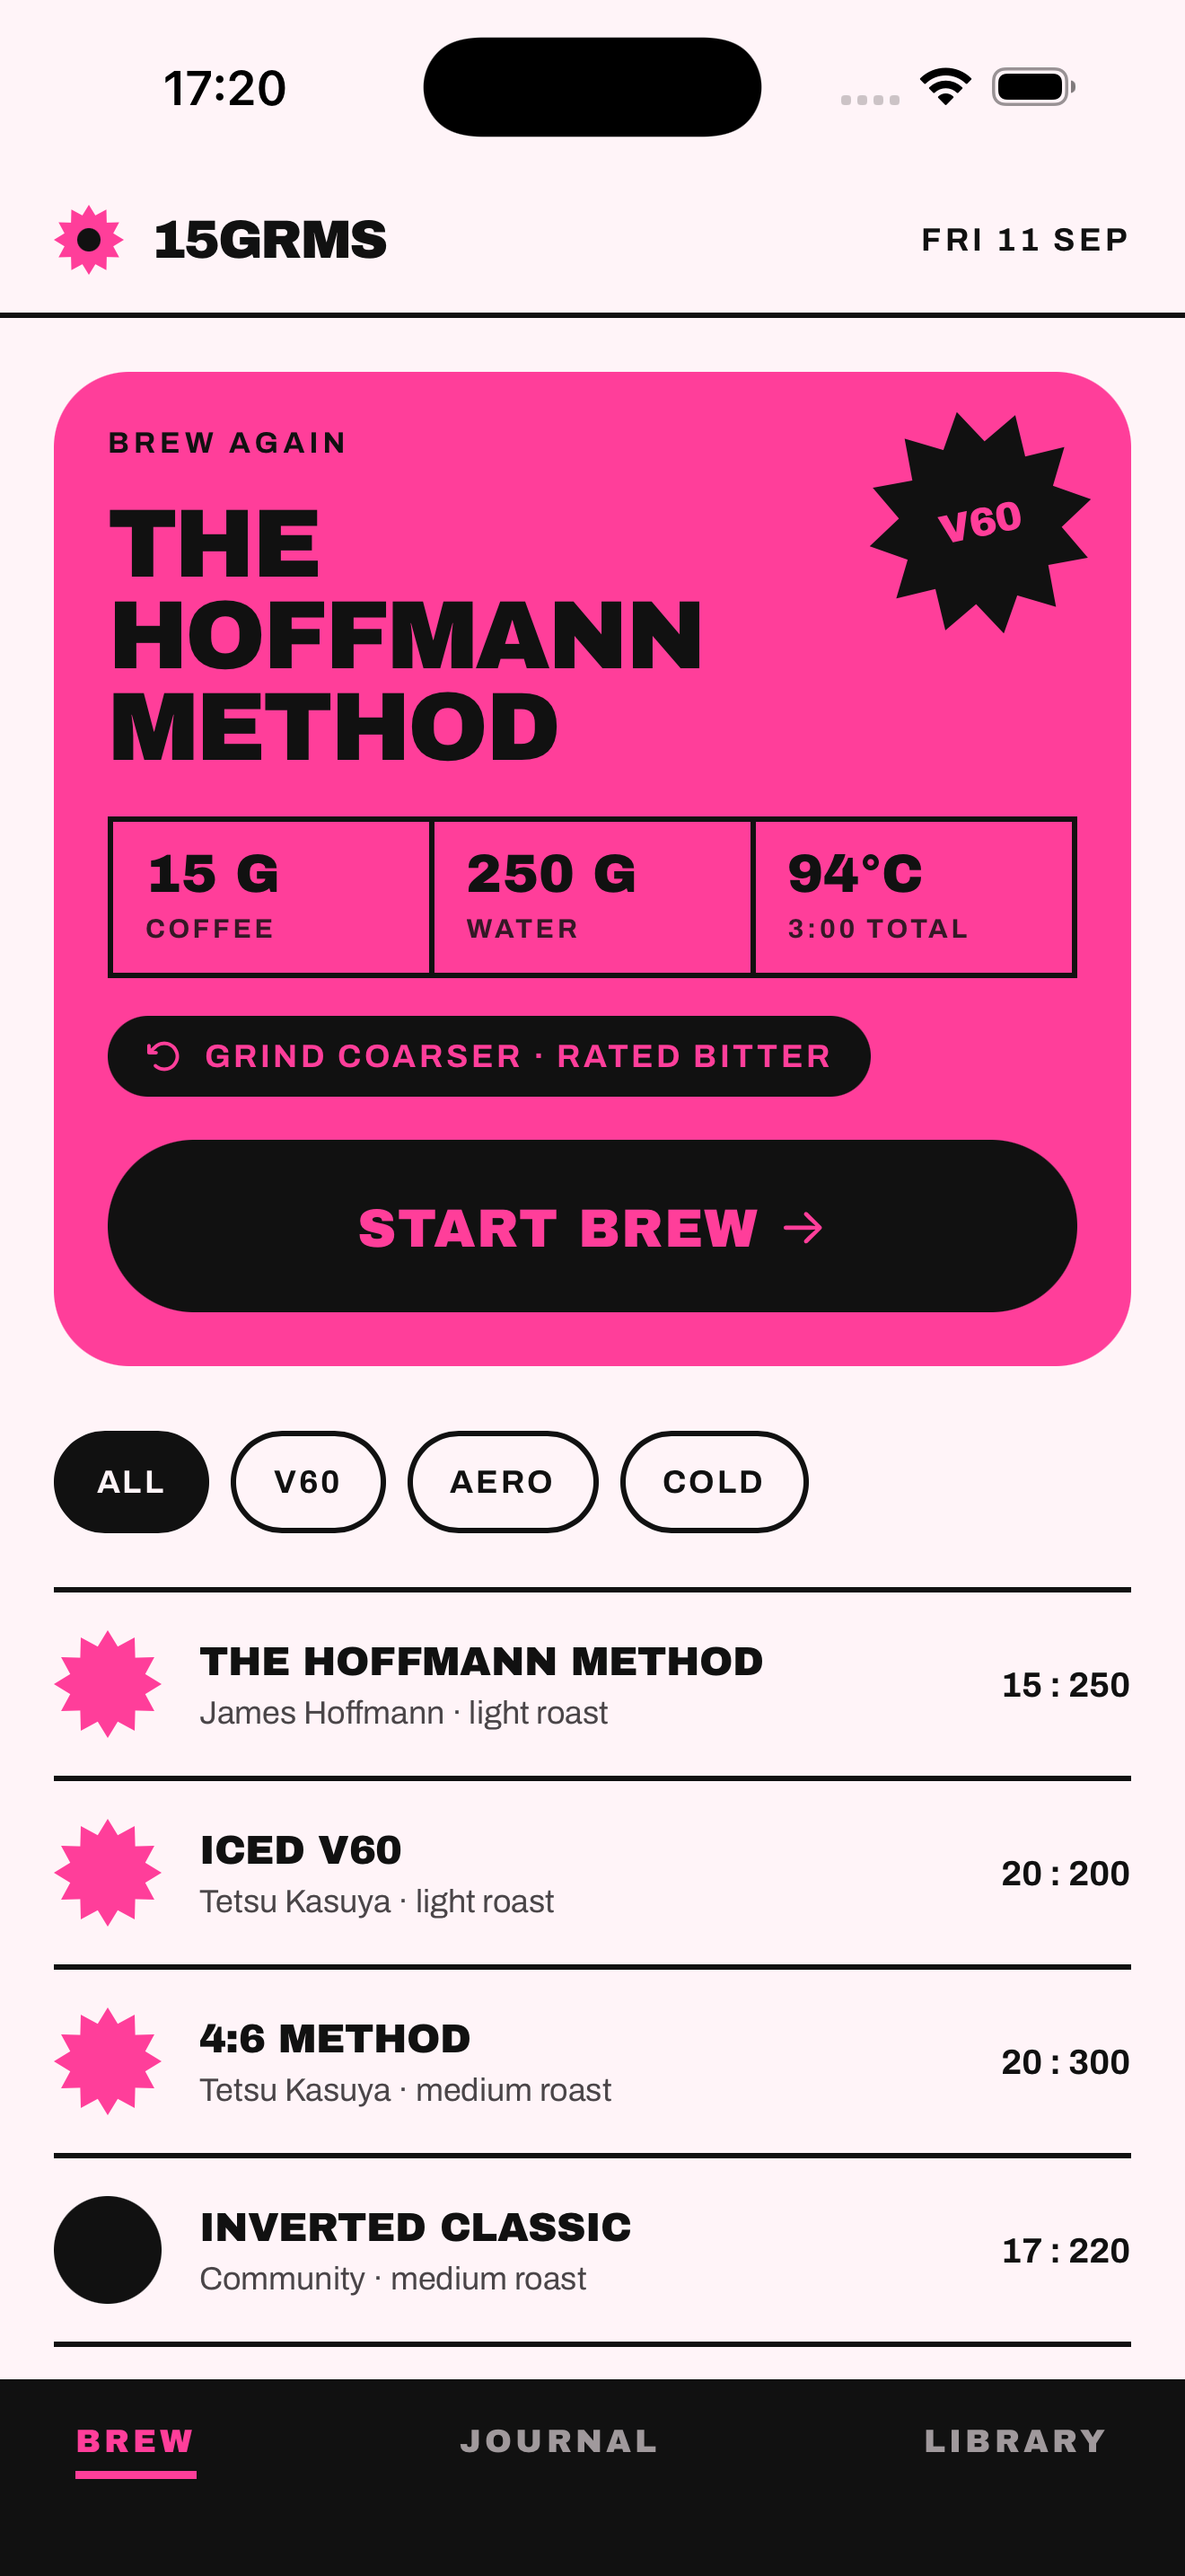
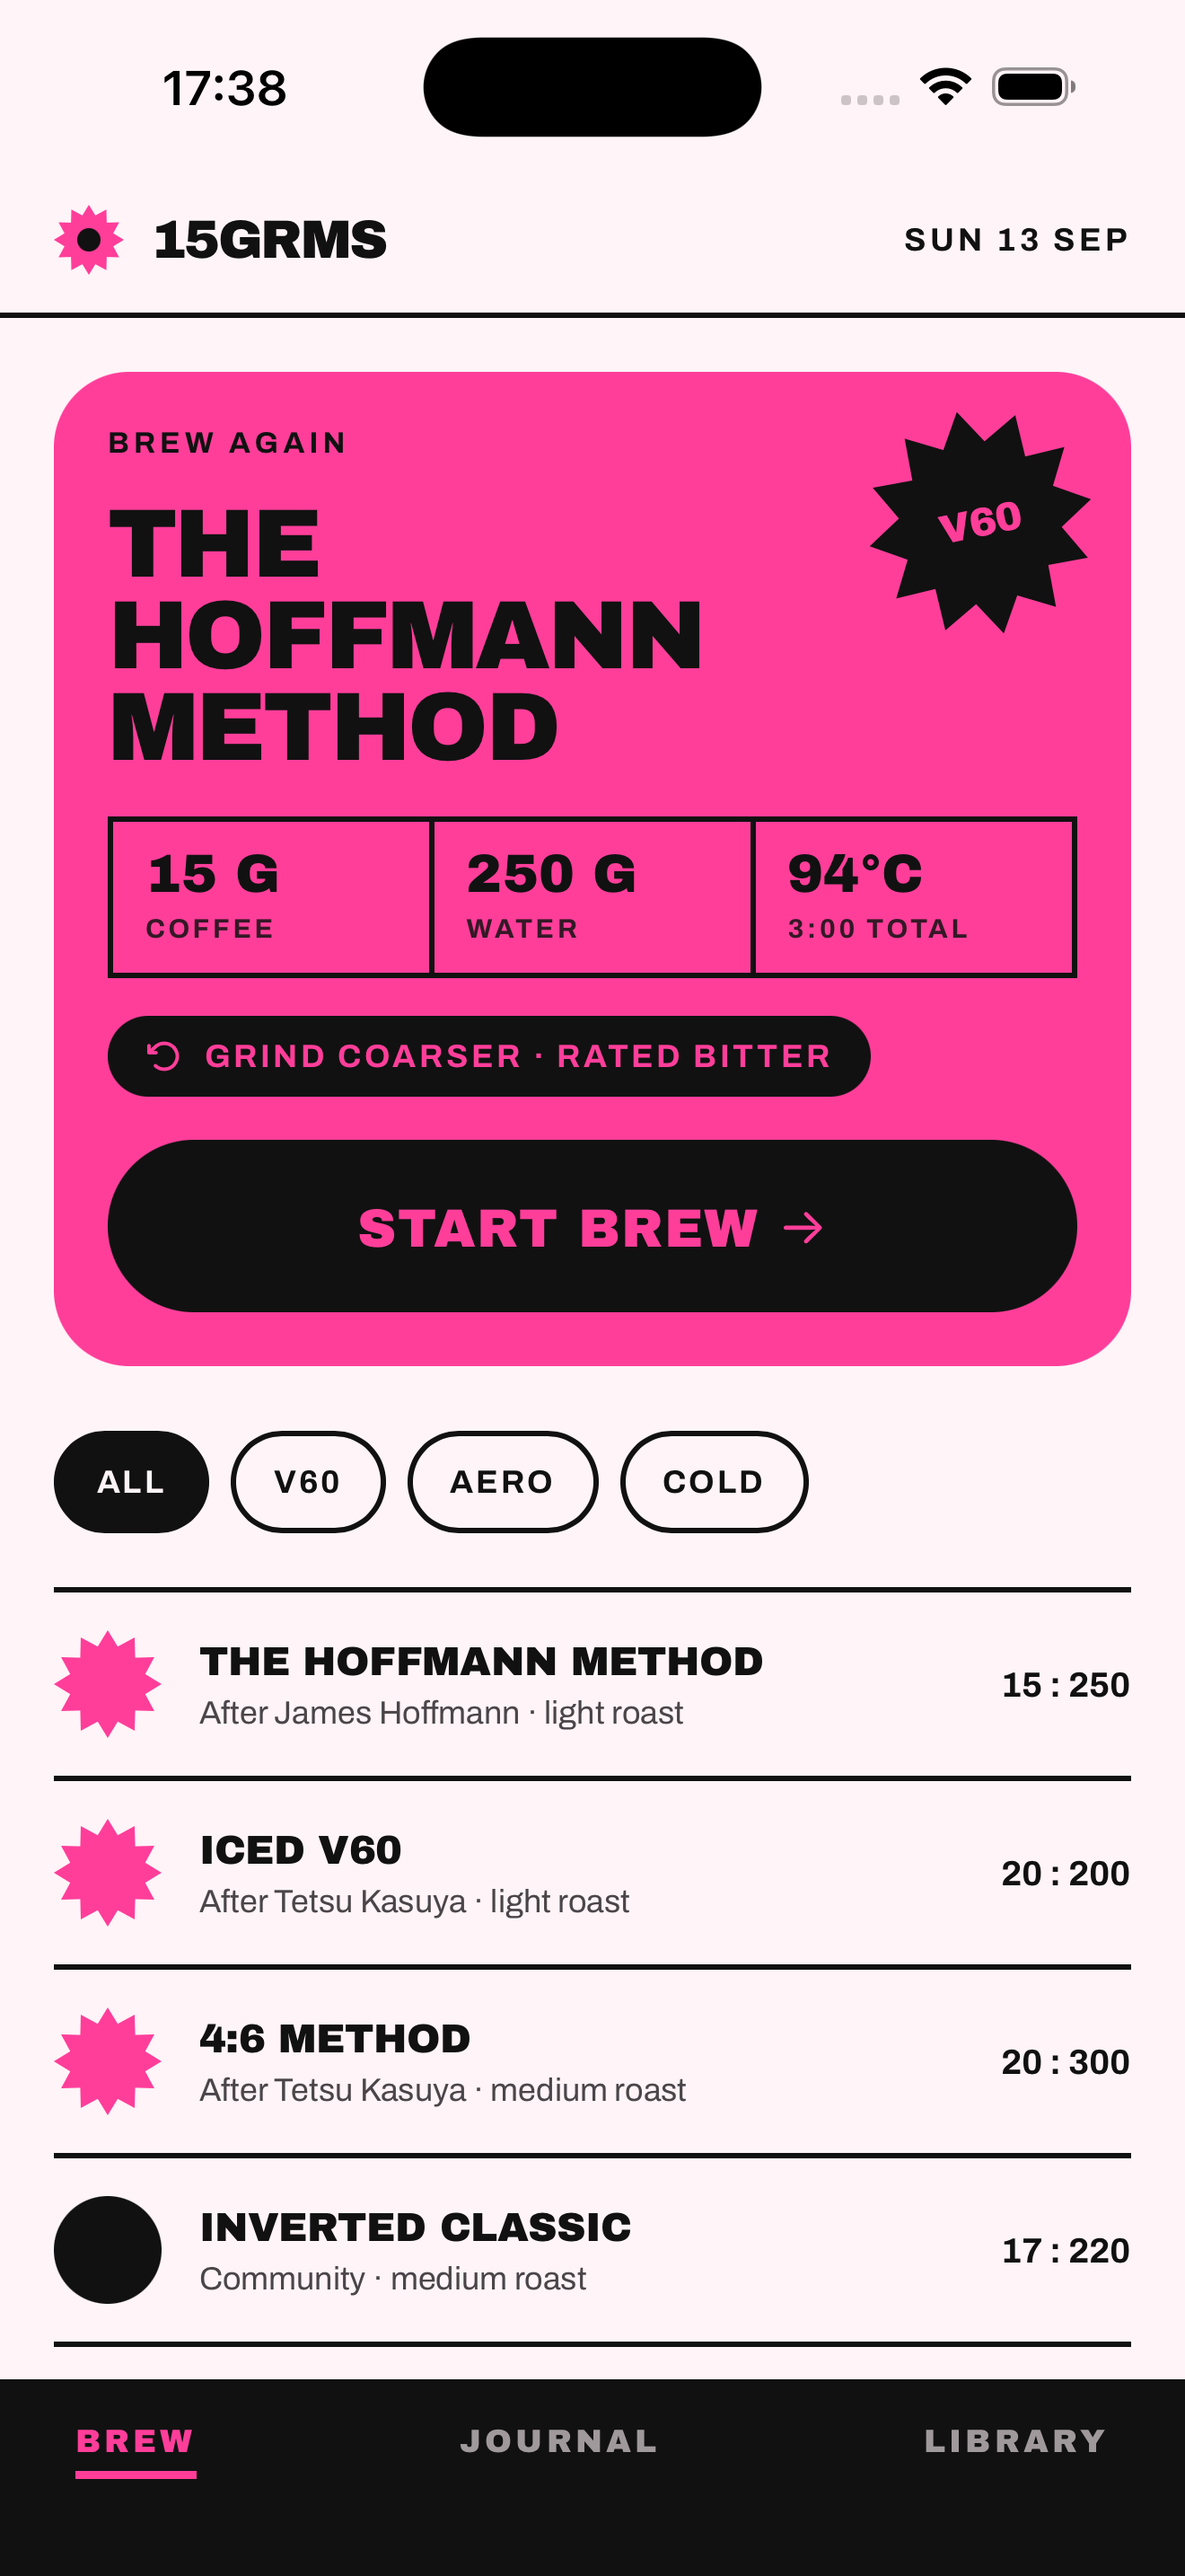
Recapture the two screenshots that advertised copy the build lost
05-journal advertised "COMPETITION WINNER", a recipe name that no longer
exists anywhere in the build after it was renamed to Championship Style, and
01-brew-home showed bare bylines from before recipes were credited as "After
James Hoffmann". A store screenshot promising content the app does not
contain is a 2.3 problem, not a cosmetic one.

Both recaptured at 1320x2868 from the iPhone 17 Pro Max. All five are now RGB
rather than RGBA; they were fully opaque already, so flattening is lossless,
and Apple's spec asks for no transparency.

Committed the seeding script rather than leaving it in scratch, because this
drift will recur on every copy change and recapturing by hand means completing
brews in a simulator, which is slow enough that nobody does it. It writes the
store straight into the WKWebView's localStorage. Its header records the three
things that cost an hour to work out: the Pro Max is the only device that
gives the required size, simctl is the only reliable way to capture because
the automation tool returns stale frames, and the WebKit origin hash is per
install so onboarding has to run once before there is anything to seed.

diff --git a/store/listing.md b/store/listing.md
@@ -161,20 +161,32 @@ notifications (local, scheduled on device) and keep-awake during a brew.
 for smaller devices. 1 to 10 per size, and the Media Manager panel is the
 authority if it ever disagrees with this file.
 
-**Two of the five are stale as of 2026-09-12 and must be recaptured before
-upload.** They predate the attribution and recipe-name changes:
-- `01-brew-home.png`: shows bare bylines ("James Hoffmann · light roast"). The
-  app now renders "After James Hoffmann · light roast". Three of the four visible
-  rows are wrong.
-- `05-journal.png`: the top row reads "COMPETITION WINNER", a recipe name that no
-  longer exists anywhere in the build. It is now "Championship Style". This is
-  the worse of the two: a store screenshot advertising content the app does not
-  contain.
-- `02-session.png`, `03-complete.png` and `06-appearance.png` are unaffected.
+All five are RGB with no alpha channel, and all match the shipping build as of
+2026-09-13. `01-brew-home` and `05-journal` were recaptured that day: they
+predated the attribution change, so the first showed bare bylines ("James
+Hoffmann") instead of "After James Hoffmann", and the second advertised
+"COMPETITION WINNER", a recipe name no longer anywhere in the build.
 
-When recapturing, re-encode to RGB. All five are currently RGBA (fully opaque,
-but with an alpha channel). Alpha is a hard rejection for the app icon; whether
-it is enforced on screenshots is unconfirmed, and flattening costs nothing.
+**Recapturing is scripted, so do it whenever user-facing copy changes.**
+[seed-screenshot-state.mjs](seed-screenshot-state.mjs) writes a realistic
+journal and a pending tweak straight into the simulator's WKWebView
+localStorage, which avoids completing brews by hand. Its header carries the full
+procedure. Three things that cost an hour to learn the first time:
+- The device must be the **iPhone 17 Pro Max**. It gives 1320x2868; the plain
+  Pro gives 1206x2622, which is the wrong size and is silently accepted by
+  everything until App Store Connect rejects it.
+- Capture with `xcrun simctl io booted screenshot`. The iOS simulator automation
+  tool returns stale frames (it will happily show a screen the app cannot
+  currently be on); its taps are reliable, its screenshots are not.
+- The WebKit origin directory is created on first write, and its hash is per
+  install, so onboarding must be tapped through once before there is anything to
+  seed. Copying the path from a previous run silently seeds an origin the app
+  never reads.
+
+Captures come out RGBA but fully opaque, so flatten to RGB before uploading
+(one line of PIL, in the script header). Alpha is a hard rejection for the app
+icon; whether it is enforced on screenshots is unconfirmed, and flattening is
+free.
 
 **Paste the description and promo text unwrapped.** This file is hard-wrapped at
 about 80 columns and those newlines survive a copy-paste as mid-sentence line
